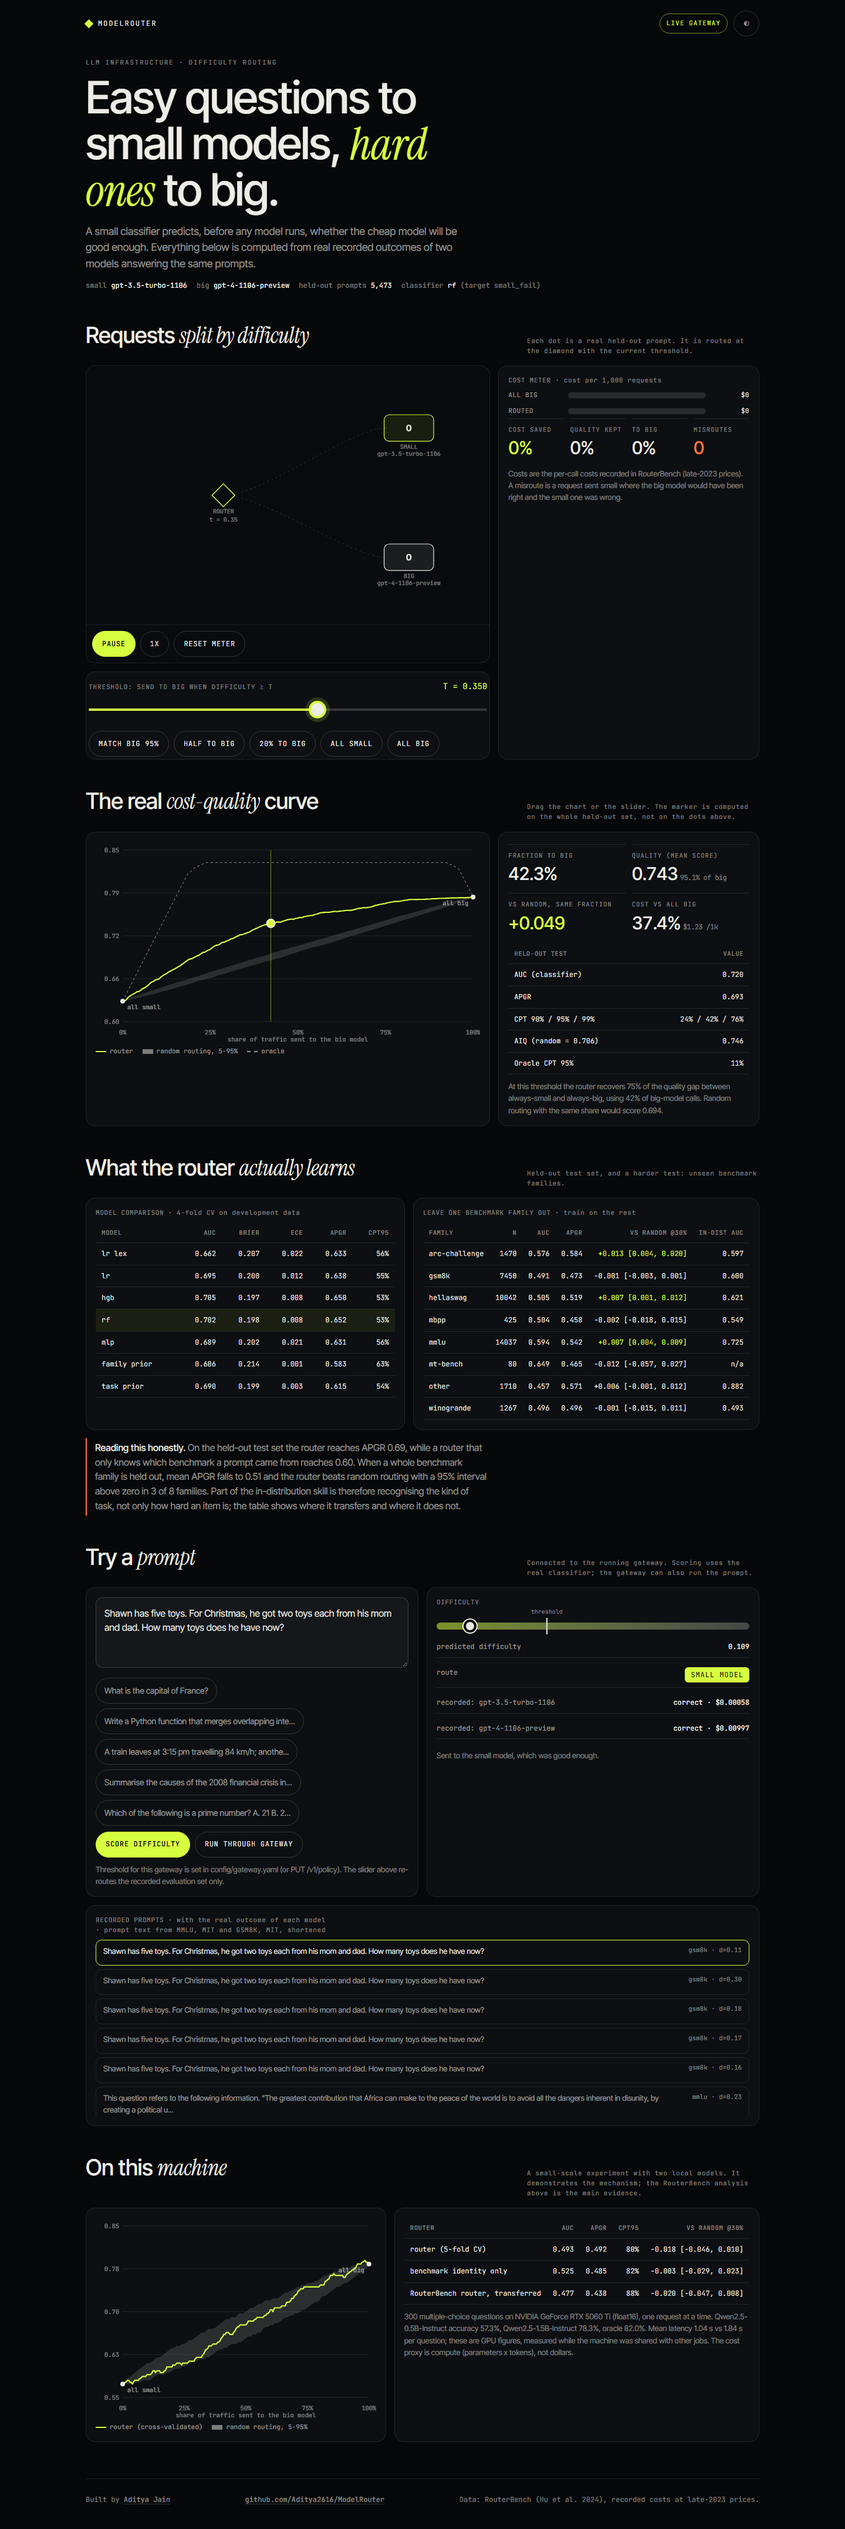
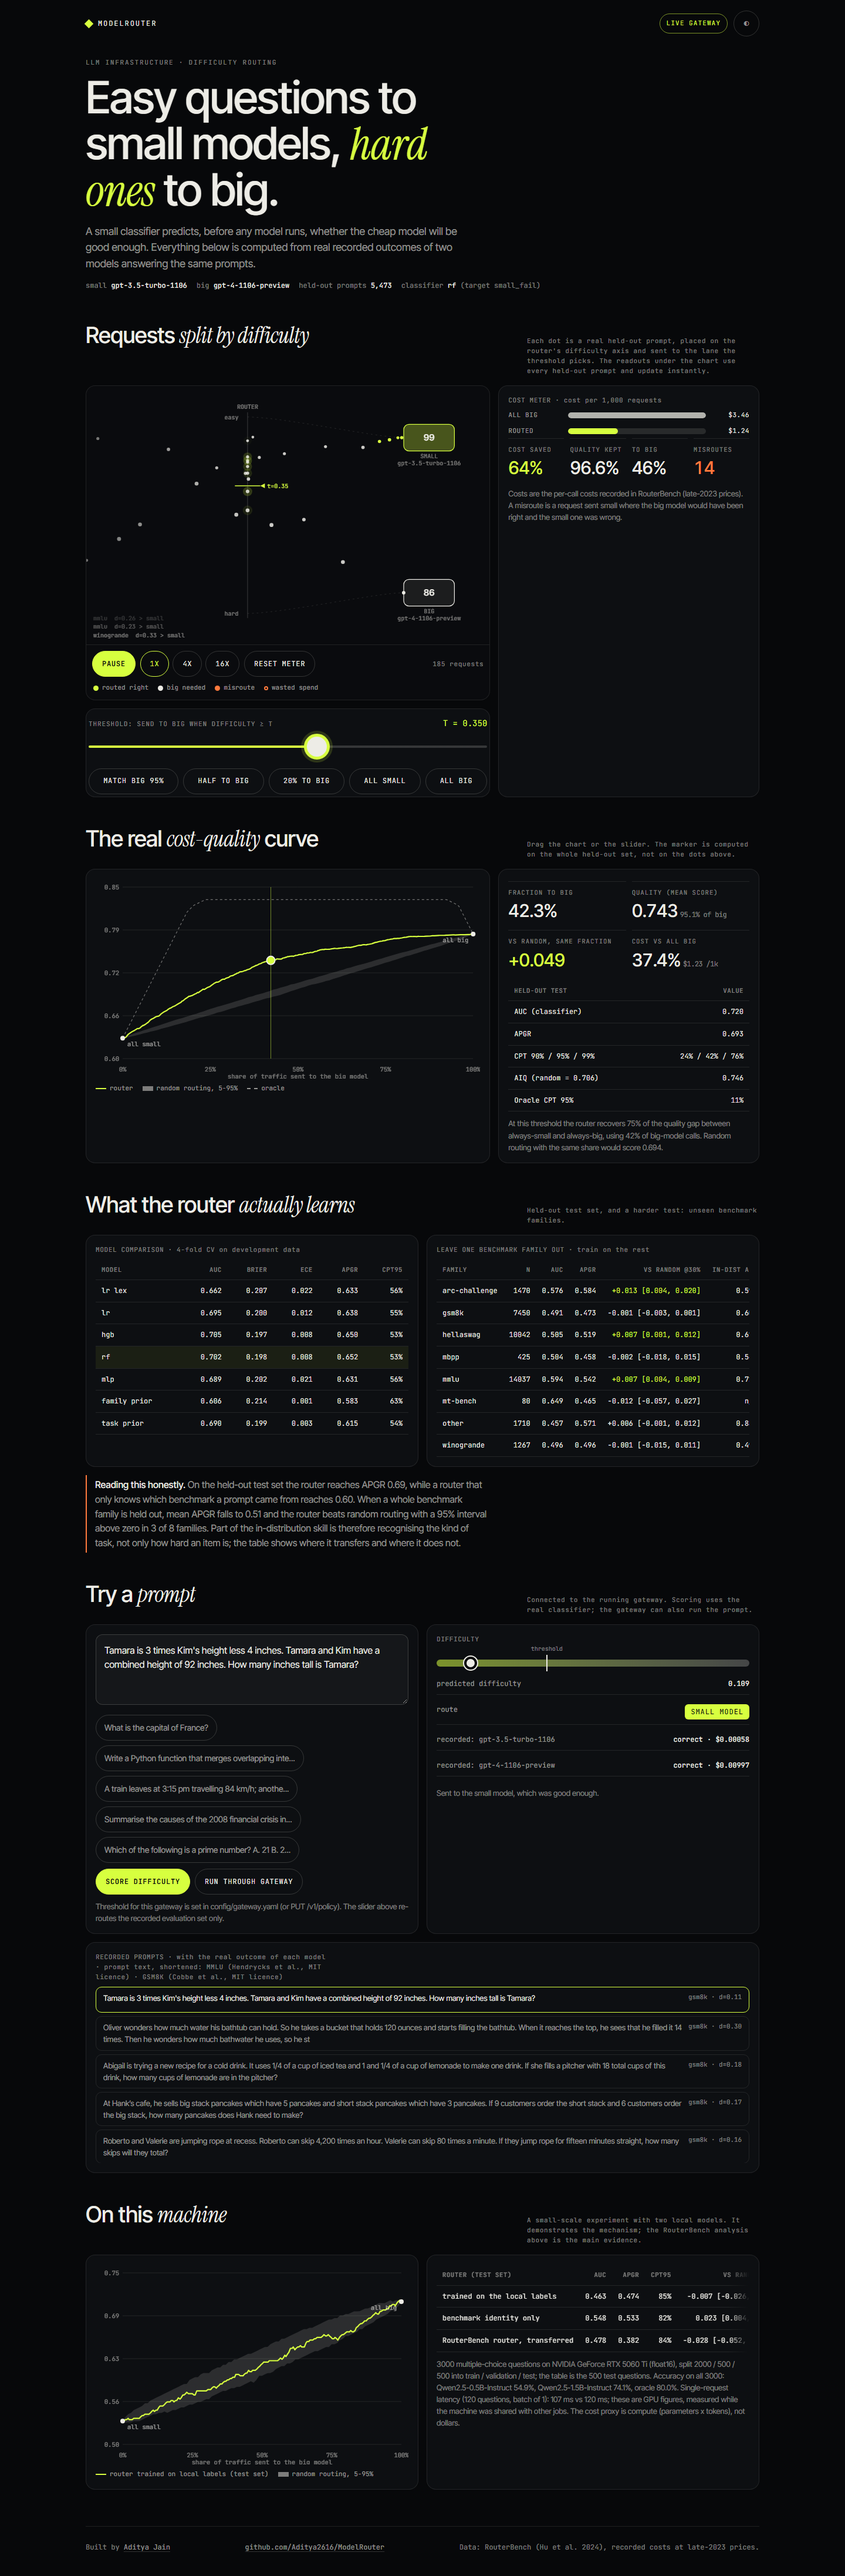
Fix horizontal overflow of the two-column sections on phones, wrap preset chips, refresh screenshots, extend the browser check

diff --git a/docs/style.css b/docs/style.css
@@ -59,6 +59,7 @@ h2 em { font-family: var(--serif); font-style: italic; font-weight: 400; }
 .sec-note { color: var(--dim); font-family: var(--mono); font-size: 11px; letter-spacing: .06em; max-width: 60ch; }
 .panel { background: var(--glass); border: 1px solid var(--line); border-radius: 16px; padding: 16px; }
 .grid2 { display: grid; gap: 14px; grid-template-columns: 1fr; }
+.grid2 > * { min-width: 0; }
 @media (min-width: 900px) { .grid2 { grid-template-columns: 1.55fr 1fr; } .grid2.even { grid-template-columns: 1fr 1fr; } }
 
 /* stream */
@@ -100,7 +101,7 @@ input[type=range]::-moz-range-progress { height: 4px; background: var(--lime); b
 input[type=range]::-webkit-slider-thumb { -webkit-appearance: none; width: 44px; height: 44px; margin-top: -20px; border-radius: 50%; background: var(--bone); border: 5px solid var(--lime); box-shadow: 0 0 0 5px color-mix(in srgb, var(--lime) 16%, transparent); }
 input[type=range]::-moz-range-thumb { width: 34px; height: 34px; border-radius: 50%; background: var(--bone); border: 5px solid var(--lime); }
 .presets { display: flex; flex-wrap: wrap; gap: 8px; margin-top: 6px; }
-.presets .btn { flex: 1 1 calc(33% - 8px); padding: 0 10px; white-space: nowrap; }
+.presets .btn { flex: 1 1 auto; padding: 0 14px; white-space: nowrap; }
 .chart-wrap { position: relative; }
 .chart-wrap canvas { display: block; width: 100%; height: clamp(240px, 46vw, 340px); touch-action: pan-y; cursor: ew-resize; }
 .legend { display: flex; flex-wrap: wrap; gap: 6px 16px; font-family: var(--mono); font-size: 11px; color: var(--mute); margin-top: 8px; }

diff --git a/web/style.css b/web/style.css
@@ -59,6 +59,7 @@ h2 em { font-family: var(--serif); font-style: italic; font-weight: 400; }
 .sec-note { color: var(--dim); font-family: var(--mono); font-size: 11px; letter-spacing: .06em; max-width: 60ch; }
 .panel { background: var(--glass); border: 1px solid var(--line); border-radius: 16px; padding: 16px; }
 .grid2 { display: grid; gap: 14px; grid-template-columns: 1fr; }
+.grid2 > * { min-width: 0; }
 @media (min-width: 900px) { .grid2 { grid-template-columns: 1.55fr 1fr; } .grid2.even { grid-template-columns: 1fr 1fr; } }
 
 /* stream */
@@ -100,7 +101,7 @@ input[type=range]::-moz-range-progress { height: 4px; background: var(--lime); b
 input[type=range]::-webkit-slider-thumb { -webkit-appearance: none; width: 44px; height: 44px; margin-top: -20px; border-radius: 50%; background: var(--bone); border: 5px solid var(--lime); box-shadow: 0 0 0 5px color-mix(in srgb, var(--lime) 16%, transparent); }
 input[type=range]::-moz-range-thumb { width: 34px; height: 34px; border-radius: 50%; background: var(--bone); border: 5px solid var(--lime); }
 .presets { display: flex; flex-wrap: wrap; gap: 8px; margin-top: 6px; }
-.presets .btn { flex: 1 1 calc(33% - 8px); padding: 0 10px; white-space: nowrap; }
+.presets .btn { flex: 1 1 auto; padding: 0 14px; white-space: nowrap; }
 .chart-wrap { position: relative; }
 .chart-wrap canvas { display: block; width: 100%; height: clamp(240px, 46vw, 340px); touch-action: pan-y; cursor: ew-resize; }
 .legend { display: flex; flex-wrap: wrap; gap: 6px 16px; font-family: var(--mono); font-size: 11px; color: var(--mute); margin-top: 8px; }

diff --git a/scripts/ui_check.py b/scripts/ui_check.py
@@ -51,7 +51,8 @@ def run(url: str, prefix: str) -> dict:
             page = ctx.new_page()
             errors: list[str] = []
             bad: list[str] = []
-            page.on("console", lambda m, e=errors: e.append(m.text) if m.type in ("error", "warning") else None)
+            # the getImageData warning comes from this script's own pixel probe, not from the page
+            page.on("console", lambda m, e=errors: e.append(m.text) if m.type in ("error", "warning") and "getImageData" not in m.text else None)
             page.on("pageerror", lambda x, e=errors: e.append(str(x)))
             page.on("response", lambda r, e=bad: e.append(f"{r.status} {r.url}") if r.status >= 400 else None)
             page.on("requestfailed", lambda r, e=bad: e.append(f"failed {r.url}"))
@@ -59,7 +60,7 @@ def run(url: str, prefix: str) -> dict:
             page.wait_for_timeout(4000)  # let the stream fill: the first screenshot shows it mid-flow
             page.screenshot(path=f"{prefix}-{name}-top.png")
             r = {"console_errors": errors, "bad_requests": bad, "mode": page.inner_text("#mode-badge"),
-                 "horizontal_overflow": page.evaluate("document.documentElement.scrollWidth > window.innerWidth"),
+                 "horizontal_overflow": page.evaluate("document.body.scrollWidth > document.documentElement.clientWidth || document.documentElement.scrollWidth > document.documentElement.clientWidth"),
                  "small_targets": page.evaluate(SMALL_TARGETS_JS), "fps": {}}
             for sp in ("1", "4", "16"):
                 page.click(f'[data-speed="{sp}"]')
@@ -76,12 +77,17 @@ def run(url: str, prefix: str) -> dict:
                                 "pressed": page.get_attribute(f'[data-preset="{preset}"]', "aria-pressed")}
             r["preset_states"] = seen
             r["rerouting_changes_colours"] = seen["0"]["colours"] != seen["1"]["colours"]
-            page.evaluate("window.scrollTo(0, 0)")
-            page.locator(".presets").scroll_into_view_if_needed()
-            page.locator(".slider-box").screenshot(path=f"{prefix}-{name}-presets.png")
+            page.click('[data-speed="1"]')
+            page.evaluate("document.querySelector('.slider-box').scrollIntoView({block: 'center'})")
+            page.wait_for_timeout(800)
+            page.screenshot(path=f"{prefix}-{name}-presets.png")  # viewport: stage, slider and preset chips
             for tid in ("#metrics-table", "#lofo-table", "#live-table"):
-                page.locator(tid).scroll_into_view_if_needed()
-                page.locator(tid).screenshot(path=f"{prefix}-{name}-{tid[1:]}.png")
+                page.evaluate(f"document.querySelector('{tid}').scrollIntoView({{block: 'center'}})")
+                page.wait_for_timeout(800)
+                page.screenshot(path=f"{prefix}-{name}-{tid[1:]}.png")
+            page.evaluate("document.querySelector('#stream').scrollIntoView({block: 'center'})")
+            page.wait_for_timeout(2500)
+            page.screenshot(path=f"{prefix}-{name}-stream.png")  # the stream mid-flow
             page.evaluate("window.scrollTo(0, 0)")
             page.wait_for_timeout(500)
             page.screenshot(path=f"{prefix}-{name}-full.png", full_page=True)

diff --git a/README.md b/README.md
@@ -2,7 +2,7 @@
 
 Easy questions go to a small model, hard ones to a big model. A small scikit-learn classifier predicts, before any LLM runs, whether the cheap model will be good enough. An OpenAI-compatible gateway uses that score to route each request and keeps a ledger of what it saved.
 
-![ModelRouter UI on desktop](docs/assets/served-desktop-top.png)
+![The request stream mid-flow on desktop](docs/assets/served-desktop-stream.png)
 
 The `docs/` folder is a static copy of the interface that replays recorded results, so it can be hosted on GitHub Pages with no backend (see [Static demo](#static-demo)).
 
@@ -235,7 +235,7 @@ At the end the script compares each regenerated file in `results/` with the comm
 
 `docs/` is the same interface with recorded data, ready for GitHub Pages: `python -m http.server -d docs 8109`. It ships only derived per-item numbers (predicted difficulty, each tier's recorded score and cost, task label). Prompt text is shown only for sources whose dataset card gives a licence that permits redistribution, shortened, with an attribution line in the page: MMLU (Hendrycks et al., MIT licence) and GSM8K (Cobbe et al., MIT licence). Every other item shows its task label only. `scripts/ui_check.py` checks the page at 1440x900 and 390x844 (touch) and writes the screenshots in `docs/assets/`.
 
-![Phone](docs/assets/served-phone-top.png)
+![Phone](docs/assets/served-phone-presets.png)
 
 ## Design decisions
 
